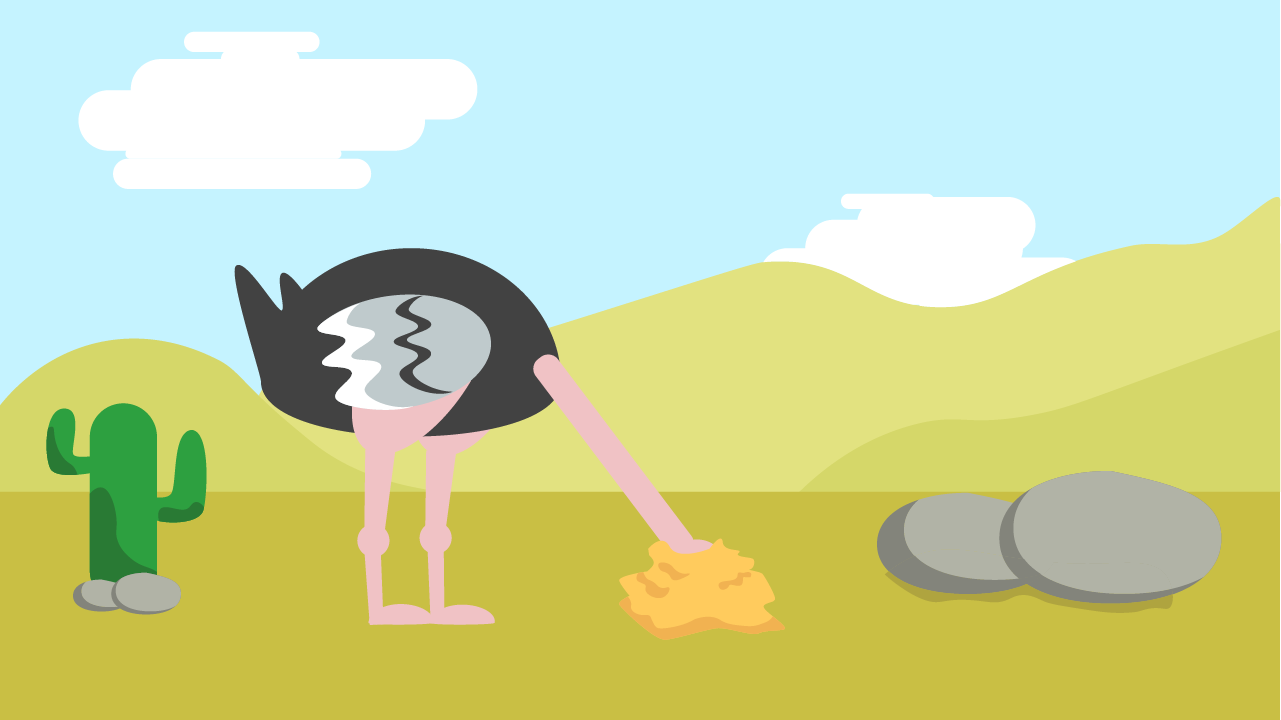
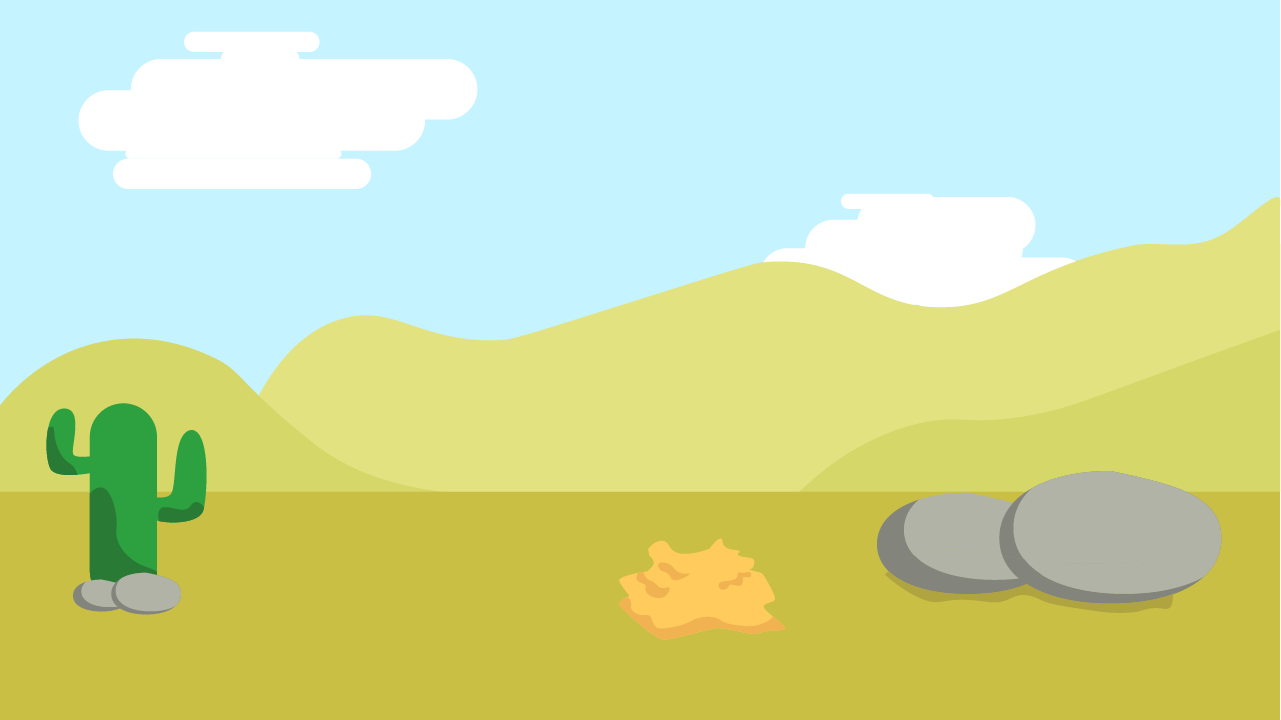
Polish017

Changed region(s): [[0.1561, 0.3361, 0.5621, 0.8861]]

diff --git a/Scene/load.js b/Scene/load.js
@@ -26,7 +26,9 @@ class load extends Phaser.Scene {
         this.load.image("screengoal3", "Assets/ObjectiveScreen3.png");
 
     	this.load.image("background1-a", "Assets/background1-A.png");
-    	this.load.image("background1-b", "Assets/background1-B.png");
+        this.load.image("dirt", "Assets/dirt.png");
+    	this.load.image("ostrishA", "Assets/OstrichA.png");
+        this.load.image("ostrishB", "Assets/OstrichB.png");
     	this.load.image("barindicator", "Assets/barIndicator.png");
 		this.load.image("bar", "Assets/bar.png");
 
@@ -36,7 +38,7 @@ class load extends Phaser.Scene {
 
 
         this.load.image("background3", "Assets/background3.png");
-        this.load.spritesheet("flies", "Assets/fly.png", {frameWidth: 60, frameHeight: 44});
+        this.load.spritesheet("flies", "Assets/Fly.png", {frameWidth: 60, frameHeight: 44});
 
         this.load.image("chameleon", "Assets/chameleon.png");
         //this.load.image("tongue", "Assets/.png");

diff --git a/Scene/mGame1.js b/Scene/mGame1.js
@@ -14,9 +14,10 @@
 	}
 
 	create() {
-		this.add.image(0, 0, 'background1-a').setOrigin(0,0).setVisible(true);
-		this.add.image(0, 0, 'background1-b').setOrigin(0,0).setVisible(false);
-
+		this.add.image(0, 0, 'background1-a').setOrigin(0,0);
+		this.oA = this.add.image(700, 485, 'ostrishA').setVisible(true).setScale(0.2);
+		this.oB =this.add.image(700, 380, 'ostrishB').setVisible(false).setScale(0.2);
+		this.add.sprite(620, 535, "dirt").setOrigin(0,0).setScale();
 		this.add.sprite(1150, 125, "bar").setOrigin(0,0).setScale();
 
 		//Timer
@@ -143,8 +144,8 @@
 			if(this.barindicator.y <= 100 && this.timeLeft != 0)
 			{
 				this.gameTimer.paused = true;
-				this.add.image(0, 0, 'background1-a').setOrigin(0,0).setVisible(false);
-				this.add.image(0, 0, 'background1-b').setOrigin(0,0).setVisible(true);
+				this.oA.setVisible(false);
+				this.oB.setVisible(true);
 
 				this.timedEvent = this.time.delayedCall(2000, callGame, [], this);
 

diff --git a/Scene/main.js b/Scene/main.js
@@ -58,7 +58,7 @@ class main extends Phaser.Scene {
 
 	      function callGame()
 	      {
-	          this.scene.start('goal', {nVie: this.nVie, score: this.score, level: this.level});
+	          this.scene.start('game3', {nVie: this.nVie, score: this.score, level: this.level});
 
 
 	          console.log("Vies :" + this.nVie);
